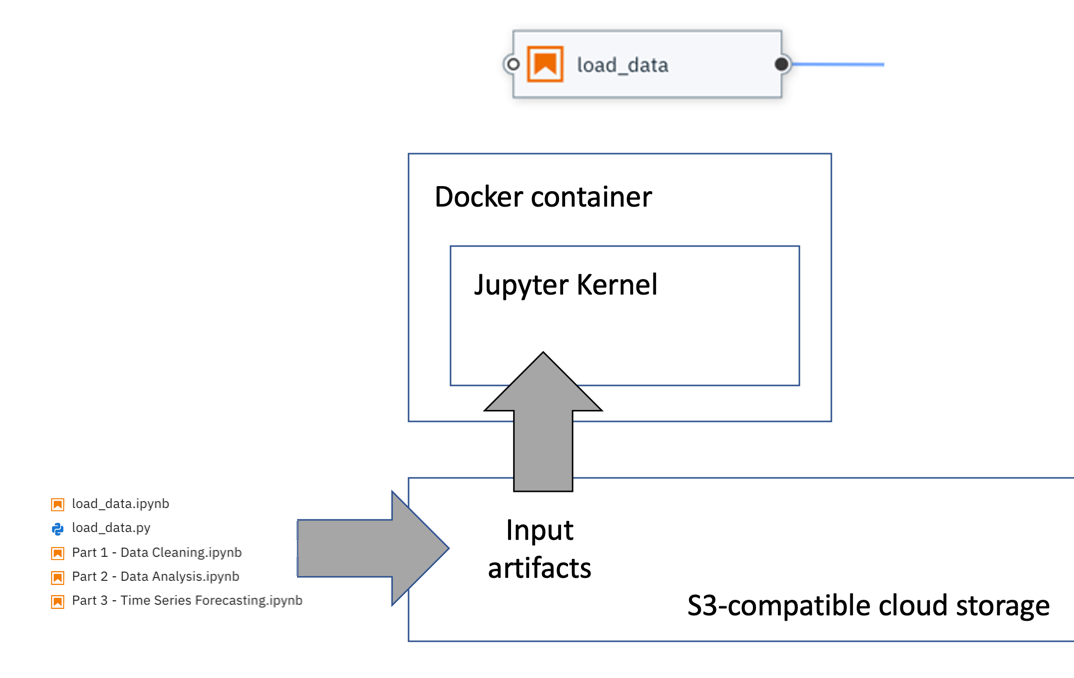
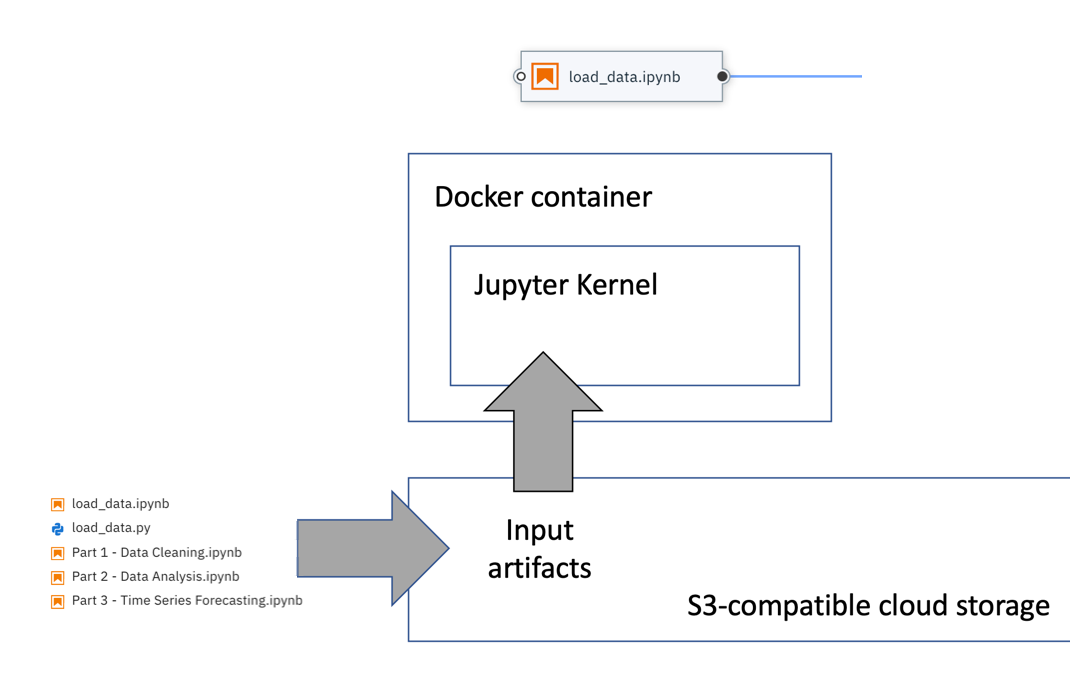
Refresh Kubeflow Pipelines tutorial content

diff --git a/pipelines/hello_world_kubeflow_pipelines/README.md b/pipelines/hello_world_kubeflow_pipelines/README.md
@@ -21,7 +21,7 @@ In Elyra, an AI pipeline, also referred to as workflow pipeline, comprises of no
 
 ![The completed tutorial pipeline](doc/images/tutorial_pipeline.png)
 
-Workflow pipelines can run locally in JupyterLab or remotely on Kubeflow Pipelines, a platform for building and deploying machine learning workflows based on Docker containers.
+Workflow pipelines can run locally in JupyterLab or remotely on Kubeflow Pipelines, a platform for building and deploying machine learning workflows based on containers.
 
 ![Run a notebook pipeline locally or on Kubeflow Pipelines](doc/images/notebook_pipeline_local_and_remote.png)
 
@@ -30,15 +30,17 @@ In this tutorial you will learn how to create a pipeline and run it on Kubeflow 
 ### Prerequisites
 
 To complete this tutorial you need
-- [JupyterLab 2.x with the Elyra extension v1.2 (or newer) installed](https://elyra.readthedocs.io/en/latest/getting_started/installation.html)
+- [JupyterLab 3.x with the Elyra extension v2.x (or newer) installed](https://elyra.readthedocs.io/en/latest/getting_started/installation.html).
 - Access to a [local](https://elyra.readthedocs.io/en/latest/recipes/deploying-kubeflow-locally-for-dev.html) or [cloud](https://www.kubeflow.org/docs/started/cloud/) Kubeflow Pipelines deployment
 
 #### Information to collect before starting
 
 Collect the following information for your Kubeflow Pipelines installation:
 - API endpoint, e.g. `http://kubernetes-service.ibm.com/pipeline`
+- Namespace, for a multi-user, auth-enabled Kubeflow installation, e.g. `mynamespace`
 - Username for a multi-user, auth-enabled Kubeflow installation, e.g. `jdoe`
 - Password for a multi-user, auth-enabled Kubeflow installation, e.g. `passw0rd`
+- Workflow engine type, which should be `Argo` or `Tekton`. Contact your administrator if you are unsure which engine your deployment utilizes.
 
 Notebook pipelines use S3-compatible cloud storage at runtime to make data available to notebooks. Any kind of cloud storage should work (e.g. IBM Cloud Object Storage or Minio - which is installed with Kubeflow Pipelines by default) as long as it can be accessed from your local machine and the Kubeflow Pipelines installation:
 - S3 compatible object storage endpoint, e.g. `http://minio-service.kubeflow:9000`
@@ -48,13 +50,11 @@ Notebook pipelines use S3-compatible cloud storage at runtime to make data avail
 ### Setup
 
 This tutorial uses the `hello_world_kubeflow_pipelines` sample from the https://github.com/elyra-ai/examples GitHub repository.
+
 1. Launch JupyterLab.
-1. Open the _Git clone_ wizard (Git > Clone).
-
-   ![Open Git clone wizard](doc/images/navigate_to_git_clone.png)
-
+1. Open the _Git clone_ wizard (Git > Clone A Repository).
 1. Enter `https://github.com/elyra-ai/examples.git` as _Clone URI_.
-1. In the _File Browser_ navigate to `examples/pipelines/hello_world_kubeflow_pipelines`.
+1. In the _File Browser_ navigate to `examples/pipelines/hello_world`.
 
    ![Tutorial assets in File Browser](doc/images/cloned_examples.png)
    
@@ -86,7 +86,7 @@ Next, you'll add a notebook to the pipeline that downloads an open data set arch
 
    ![Add first node to pipeline](doc/images/add_first_node.png)
 
-1. Right click on the `load_data` node to customize its execution properties.
+1. Right click on the `load_data` node to customize its properties.
 
    ![Open node properties](doc/images/open_node_properties.png)
 
@@ -94,26 +94,40 @@ Next, you'll add a notebook to the pipeline that downloads an open data set arch
 
    ![Notebook node configuration](doc/images/node_configuration.png)
 
-1. Notebooks or Python scripts are executed in Docker containers. 
+1. By default the file name is used as node label. You should customize the label text if it is too long (and therefore displayed truncated on the canvas) or not descriptive enough.
+
+   ![Edit node name](doc/images/edit_node_name.png)
+
+1. Notebooks or Python scripts are executed in containers. 
    ![Notebooks or Python scripts are executed in Docker containers](doc/images/execution_environment.png)
 
    When you configure a node you identify the _runtime image_, which will be used to instantiate the container. You can choose from a set of pre-configured public images or [provide your own](https://elyra.readthedocs.io/en/latest/user_guide/runtime-image-conf.html). If you provide your own image Python 3 and `curl` must be pre-installed. In this tutorial you'll use the stock `Pandas` image to run the notebook or script and all other notebooks.
 
    ![Configure runtime image](doc/images/configure_runtime_image.png)
 
-1. By default only the notebook or Python script is made available in the Docker container. If a notebook or script requires access to other files that are stored on your local machine you have to specify them as _file dependencies_. Files that have been declared as a dependency are uploaded to a cloud storage bucket together with the notebook or Python script and downloaded into the Docker image prior to notebook execution.
+   If the container requires a specific minimum amount of resources during execution, you can specify them. For example, to speed up model training, you might want to make GPUs available. 
+
+   ![Customize container resources](doc/images/customize_container_resources.png)
+
+   > If no custom requirements are defined, the defaults in the Kubeflow Pipeline environment are used.
+
+1. By default only the notebook or Python script is made available in the container. If the file requires access to other files that are stored on your local machine you have to specify them as _file dependencies_. Files that have been declared as a dependency are uploaded to a cloud storage bucket together with the notebook or Python script and downloaded into the running container prior to notebook execution.
 
    ![Input dependencies are uploaded to a Cloud storage bucket](doc/images/input_dependencies.png)
 
    The `load_data` notebook and Python script do not have any input file dependencies. Leave the input field empty.
 
-   ![Configure input file dependencies](doc/images/configure_input_file_dependencies.png)
+   ![Configure input file dependencies](doc/images/configure_file_dependencies.png)
 
-1. If a notebook or Python script references `environment variables` you can declare them, if required. The `load_data` notebook or script you have added to the pipeline uses environment variable `DATASET_URL` to determine the name and location of a compressed data set archive, which needs to be downloaded and extracted. Assign environment variable `DATASET_URL` the value `https://dax-cdn.cdn.appdomain.cloud/dax-noaa-weather-data-jfk-airport/1.1.4/noaa-weather-data-jfk-airport.tar.gz`, which is a time-series data set containing weather information.
+1. You can customize additional inputs by defining environment variables. The `load_data` notebook or script require environment variable `DATASET_URL`. This variable identifies the name and location of a data set file, which the notebook or script will download and decompress.
+
+   ```
+   DATASET_URL=https://dax-cdn.cdn.appdomain.cloud/dax-noaa-weather-data-jfk-airport/1.1.4/noaa-weather-data-jfk-airport.tar.gz
+   ```
 
    ![Configure environment variables](doc/images/configure_environment_variables.png)
 
-1. Each node in a pipeline is executed in an isolated Docker container. These Docker containers do not have access to a shared local file system and persisted output artifacts (such as data files or trained model files) that a notebook or Python script might produce. To make output artifacts accessible to other notebooks or scripts you have to declare them as _output files_ in the configuration of the node that produces them. Declared output artifacts are automatically uploaded to the pre-configured cloud object storage bucket after node  processing has completed and can subsequently be accessed by other notebooks or scripts in the pipeline by referencing the declared name.
+1. Each node in a pipeline is executed in an isolated container. These containers do not have access to a shared local file system and persisted output artifacts (such as data files or trained model files) that a notebook or Python script might produce. To make output artifacts accessible to other notebooks or scripts you have to declare them as _output files_ in the configuration of the node that produces them. Declared output artifacts are automatically uploaded to the pre-configured cloud object storage bucket after node  processing has completed and can subsequently be accessed by other notebooks or scripts in the pipeline by referencing the declared name.
 
    ![Data exchange between notebooks in a pipeline via cloud storage](doc/images/data_flow.png)
     
@@ -170,17 +184,34 @@ A runtime environment configuration in Elyra contains connectivity information f
 
    ![Create runtime configuration](doc/images/create_runtime_configuration.png)
 
-1. Enter a _Name_ and an optional _Description_ for the configuration.
+1. Enter a _Name_ and a _Description_ for the configuration and optionally assign tags to support searching.
 
-1. Enter the connectivity information for your Kubeflows Pipelines instance and S3-compatible cloud storage. If access to your Kubeflows Pipelines instance is [secured using DEX](https://www.kubeflow.org/docs/started/k8s/kfctl-istio-dex/), provide the appropriate credentials.
+   ![Define misc properties](doc/images/define_misc_properties.png)
 
-   ![Configure Kubeflows Pipelines runtime](doc/images/configure_runtime_environment.png)
+1. Enter the connectivity information for your Kubeflows Pipelines deployment:
+   - Kubeflow Pipelines API endpoint, e.g. `https://kubernetes-service.ibm.com/pipeline`
+     > Do not specify the namespace in the API endpoint.
+   - User namespace used to run pipelines, e.g. `mynamespace`
+   - User credentials if the deployment is multi-user, auth enabled using [DEX](https://www.kubeflow.org/docs/started/k8s/kfctl-istio-dex/).
+   - Workflow engine type, which is either `Argo` (default) or `Tekton`. Check with an administrator if you are unsure which workflow engine your deployment utilizes.
+
+   ![Define Kubeflow Pipeline properties](doc/images/define_kfp_properties.png)
+
+   Refer to the [runtime configuration documentation](https://elyra.readthedocs.io/en/latest/user_guide/runtime-conf.html) for a description of each input field.
+
+1. Enter the connectivity information for your  S3-compatible cloud storage:
+   - The cloud storage endpoint URL, e.g. `https://minio-service.kubeflow:9000`
+   - Username, e.g. `minio`
+   - Password, e.g. `minio123`
+   - Bucket name, where Elyra will store the pipeline input and output artifacts, e.g. `test-bucket`
+
+   ![Define Kubeflow Pipeline properties](doc/images/define_s3_properties.png)
 
 1. Save the runtime configuration.
 
    ![Saved Kubeflows Pipelines runtime configuration](doc/images/saved_runtime_configuration.png)
 
-1. Expand the twistie in front of the configuration entry. The displayed links provide access to the configured Kubeflow Pipelines UI and the cloud storage UI.
+1. Expand the twistie in front of the configuration entry. The displayed links provide access to the configured Kubeflow Pipelines UI and the cloud storage UI. Open the links to confirm connectivity.
 
    ![Review runtime configuration](doc/images/review_runtime_configuration.png)
 

diff --git a/pipelines/hello_world/README.md b/pipelines/hello_world/README.md
@@ -84,7 +84,7 @@ Next, you'll add a notebook to the pipeline that downloads an open data set arch
 
    ![Configure runtime image](doc/images/configure_runtime_image.png)
 
-   If the container image requires a specific minimum amount of resources during execution, you can specify them. 
+   If the container requires a specific minimum amount of resources during execution, you can specify them. 
 
    ![Customize container resources](doc/images/customize_container_resources.png)
 
